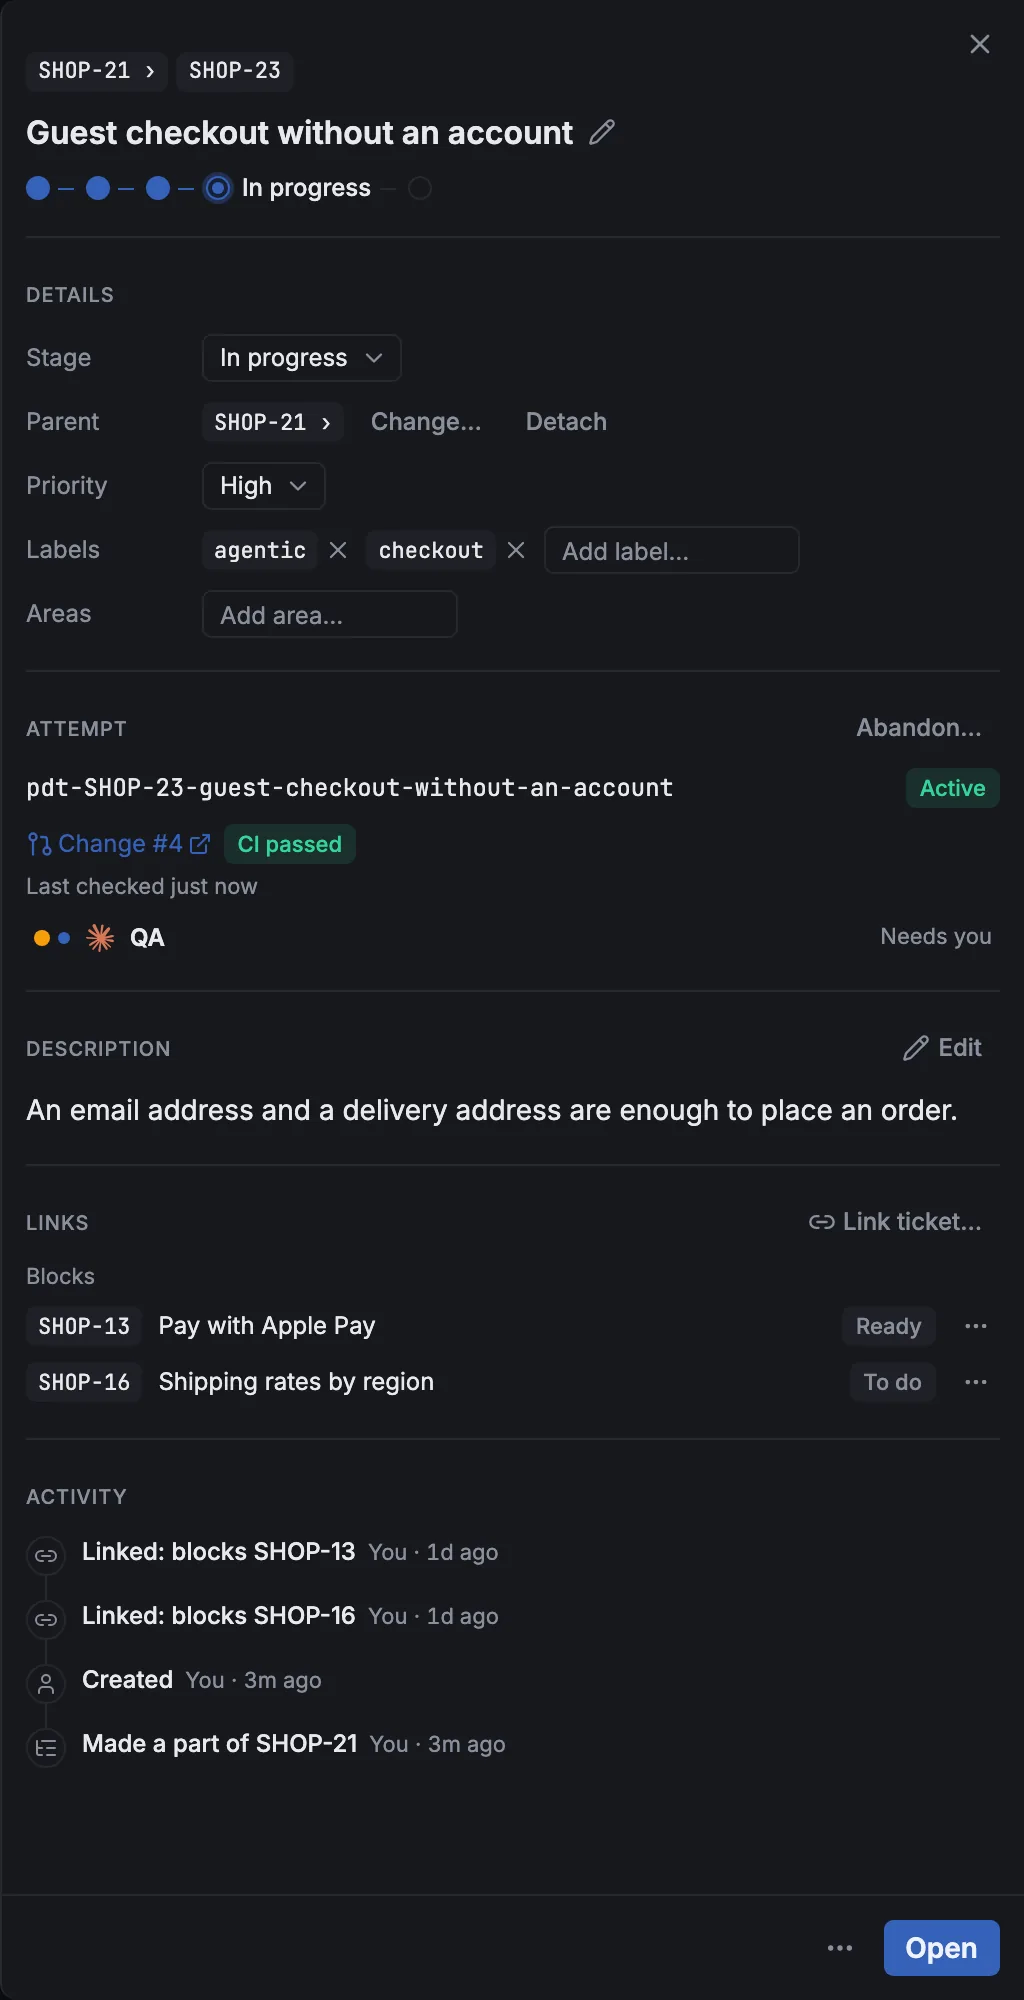
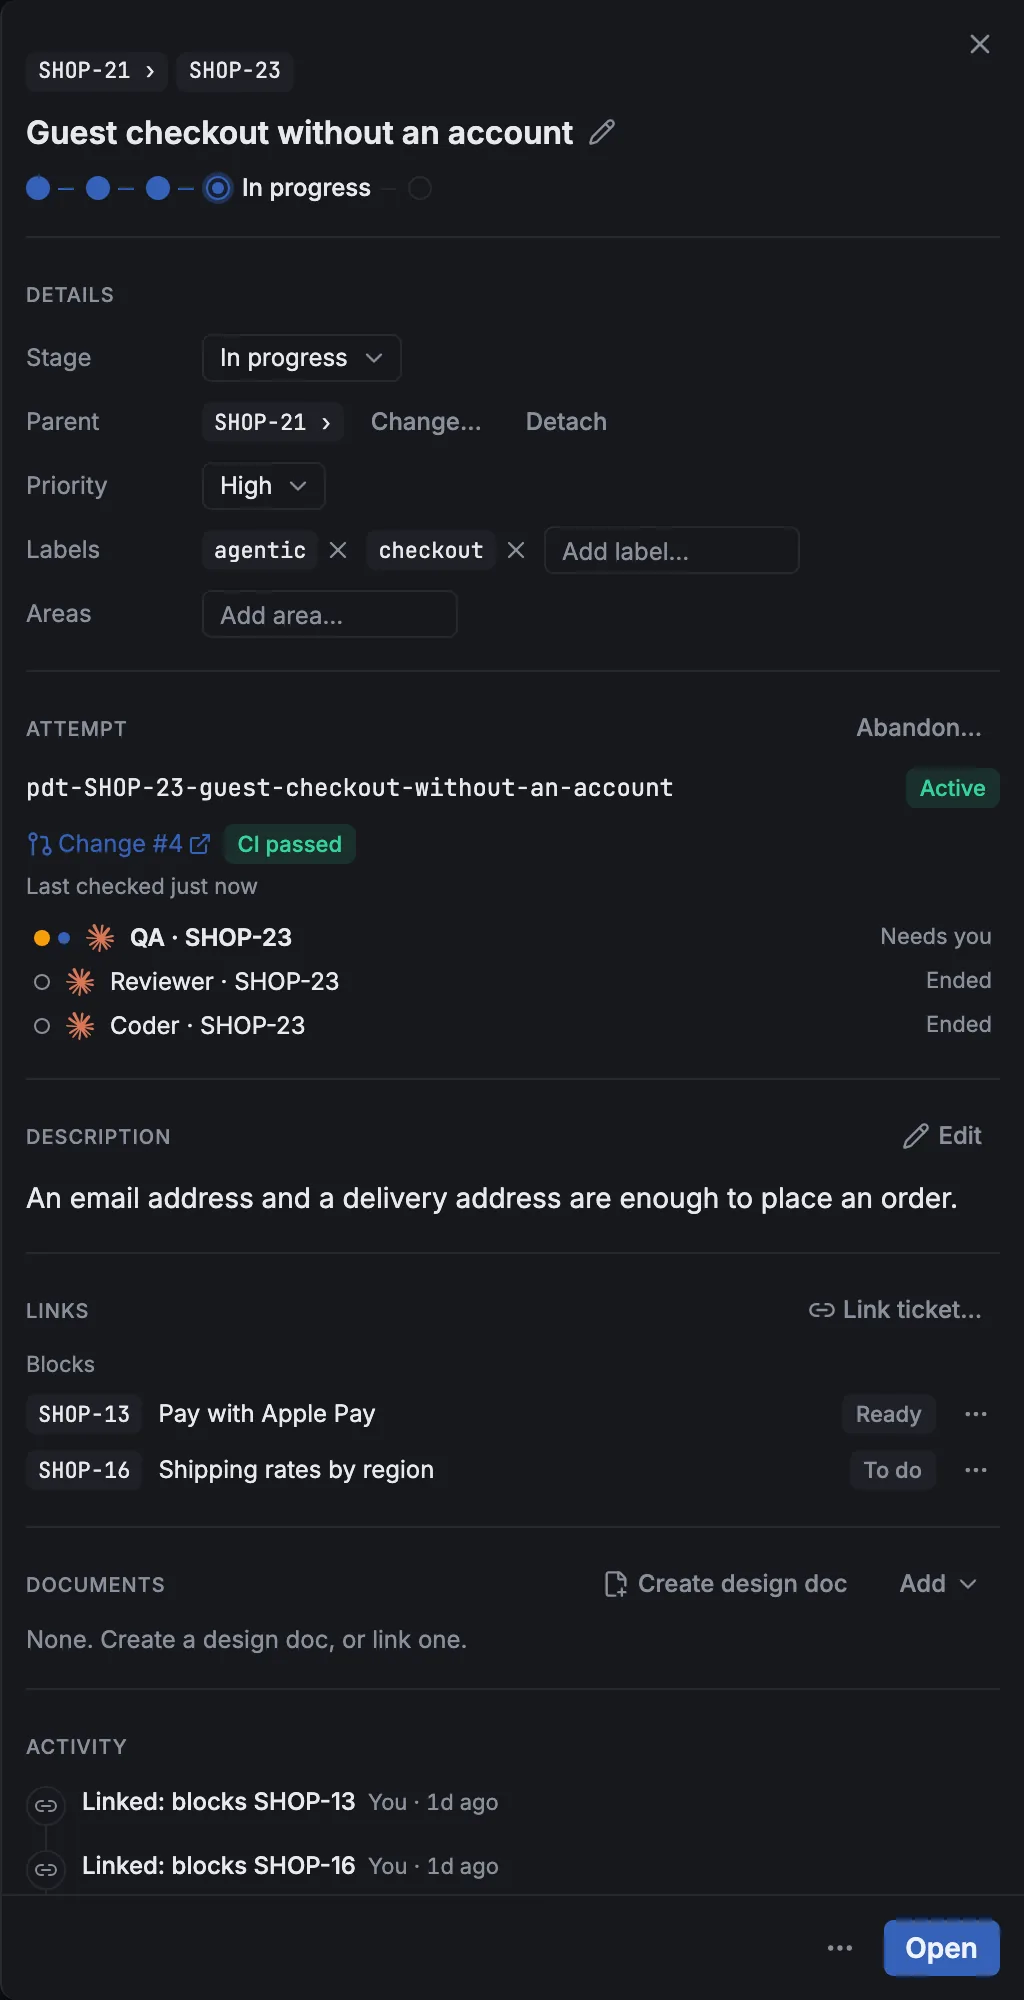
PDT-343: Website screenshots show ticket workspaces, not loose Coder/QA sessions
The website seed gives each started sample ticket a ticket workspace as pickup
makes it (ticket tab, a tab per Pipeline step so far, its Changes or test run),
with the step sessions marked as workflow sessions (built-in Coder, Reviewer
and QA personas, a step id, "<persona> · <key>" titles). Agents keeps the
user's own: a short Claude chat and a Codex terminal, beside the main shell.
site-screenshots.mjs finds the sessions and tabs in their ticket workspaces;
the workspaces, review, ticket, inbox and phone shots are taken again.

diff --git a/crates/pdtd/src/seed/website.rs b/crates/pdtd/src/seed/website.rs
@@ -10,13 +10,16 @@
 use anyhow::Context;
 use pdt_core::conversation::*;
 use pdt_core::inbox::{InboxChoice, InboxGroup, InboxItem, InboxKind, InboxStatus};
+use pdt_core::integration::ToolTable;
+use pdt_core::persona::{BUILTIN_PERSONAS, Persona, PersonaAuthor};
 use pdt_core::pr::CiState;
 use pdt_core::project::Project;
 use pdt_core::run::{Run, RunKind, RunState};
-use pdt_core::session::{AgentKind, Session, SessionKind, SessionStatus};
+use pdt_core::session::{AgentKind, Session, SessionKind, SessionPersona, SessionStatus};
 use pdt_core::ticket::{LinkKind, NewTicket, PipelineStage, Priority, TicketStage};
 use pdt_core::workflow::api::{Author, Scope, Source, Workflow};
 use pdt_core::workflow::doc::WorkflowDoc;
+use pdt_core::workspace::{TabItem, Workspace};
 use pdt_core::worktree::{WORKTREES_DIR, Worktree, worktree_path};
 use pdt_store::Store;
 use serde_json::json;
@@ -333,8 +336,32 @@ pub async fn seed_website(store: &Store, data_dir: &Path, now: i64) -> anyhow::R
         })
         .await?;
 
-    // Sessions, each a tab of the project's workspace (titled by persona: the ticket's key shows beside them): the
-    // Coder's conversation on the search ticket, a Reviewer and a QA agent (the screenshot script brings these two back on a stand-in), and a shell.
+    // The built-in personas the Pipeline's steps run, installed as PDT installs them (their template is PDT's, so
+    // the daemon keeps them as they are when it installs the rest).
+    let mut personas = Vec::new();
+    for b in BUILTIN_PERSONAS.iter().filter(|b| ["coder", "reviewer", "qa"].contains(&b.id)) {
+        let setup = b.setup(&ToolTable::default());
+        let p = Persona {
+            id: id(),
+            name: b.name.into(),
+            role: b.role.into(),
+            description: b.description.into(),
+            builtin: Some(b.id.into()),
+            archived: false,
+            version: 1,
+            setup: setup.clone(),
+            created_at: now - 30 * DAY,
+            updated_at: now - 30 * DAY,
+        };
+        store.insert_persona(&p, PersonaAuthor::Builtin, "installed").await?;
+        store.set_persona_template(&p.id, &setup).await?;
+        personas.push(p);
+    }
+    let persona = |name: &str| personas.iter().find(|p| p.name == name).expect("a sample persona");
+
+    // Sessions. The Pipeline's step sessions sit in their ticket's workspace, which pickup made when it started the
+    // ticket: the ticket's tab, then a tab per step so far (titled `<persona> · <key>`, as a step titles them). The
+    // user's own sessions are tabs of the project's workspace: a shell on main and two conversations of theirs.
     let session = |wt: Option<&Worktree>, agent: Option<AgentKind>, title: String, ago: i64| Session {
         id: id(),
         project_id: project.id.clone(),
@@ -362,34 +389,85 @@ pub async fn seed_website(store: &Store, data_dir: &Path, now: i64) -> anyhow::R
         persona: None,
         background: vec![],
     };
-    let (_, _, _, search_attempt, search_wt) = attempt_of("Search products by name");
-    let coder = Session {
+    // A ticket workspace per started ticket, in the order pickup started them (each new one goes last).
+    let mut by_start: Vec<&(&str, String, String, String, Worktree)> = attempts.iter().collect();
+    by_start.sort_by_key(|a| a.4.created_at);
+    let mut workspaces: Vec<(&str, String)> = Vec::new();
+    let mut steps: Vec<(&str, &str, Session)> = Vec::new();
+    for (title, ticket_id, key, attempt, wt) in by_start {
+        let w = Workspace {
+            id: id(),
+            name: key.clone(),
+            project_id: None,
+            position: 0,
+            created_at: wt.created_at,
+            tabs: vec![],
+            ticket: None,
+        };
+        store.insert_workspace(&w).await?;
+        store.set_attempt_workspace(attempt, &w.id).await?;
+        store.open_tab(&id(), &w.id, &TabItem::Ticket(ticket_id.clone()), None, wt.created_at).await?;
+        // The Pipeline's steps so far, oldest first; the newest is the ticket's stage's.
+        let it = items.iter().find(|i| i.title == *title).expect("a sample ticket");
+        let names: &[&str] = match it.work.expect("started").0 {
+            PipelineStage::Code => &["Coder"],
+            PipelineStage::Review => &["Coder", "Reviewer"],
+            _ => &["Coder", "Reviewer", "QA"],
+        };
+        for (n, name) in names.iter().enumerate() {
+            let p = persona(name);
+            let ago = it.ago + (names.len() - n) as i64 * 25 * MINUTE;
+            let mut s = Session {
+                attempt_id: Some(attempt.clone()),
+                persona: Some(SessionPersona {
+                    id: p.id.clone(),
+                    name: p.name.clone(),
+                    version: p.version,
+                    step_id: Some(id()),
+                }),
+                ..session(Some(wt), Some(AgentKind::Claude), format!("{name} · {key}"), ago)
+            };
+            // The Coder's conversation on the search ticket (the workspace screenshot).
+            if *title == "Search products by name" {
+                s.mode = SessionMode::Conversation;
+                s.permission_mode = Some(PermissionMode::Ask);
+                s.exit_code = None;
+            }
+            store.insert_session(&s).await?;
+            store.open_tab(&id(), &w.id, &TabItem::Session(s.id.clone()), None, s.created_at).await?;
+            steps.push((title, name, s));
+        }
+        workspaces.push((title, w.id));
+    }
+    let workspace_of =
+        |title: &str| workspaces.iter().find(|w| w.0 == title).map(|w| w.1.clone()).expect("a workspace");
+
+    let step = |title: &str, name: &str| &steps.iter().find(|s| s.0 == title && s.1 == name).expect("a step").2;
+    // The Coder's conversation on the search ticket, its branch's changes beside it.
+    let (_, _, _, _, search_wt) = attempt_of("Search products by name");
+    let coder = step("Search products by name", "Coder");
+    seed_conversation(store, &coder.id, &search_wt.branch, coder.created_at).await?;
+    let search_ws = workspace_of("Search products by name");
+    store.open_tab(&id(), &search_ws, &TabItem::Changes(search_wt.id.clone()), None, now - 5 * MINUTE).await?;
+    let (_, _, _, _, cart_wt) = attempt_of("Save the cart across visits");
+    let reviewer = step("Save the cart across visits", "Reviewer");
+    let (_, _, _, _, guest_wt) = attempt_of("Guest checkout without an account");
+
+    // The user's own sessions, in the project's workspace: a shell on main, a short chat and a Codex terminal.
+    let shell = session(None, None, "main".into(), 2 * HOUR);
+    let chat = Session {
         mode: SessionMode::Conversation,
         permission_mode: Some(PermissionMode::Ask),
         exit_code: None,
-        attempt_id: Some(search_attempt.clone()),
-        ..session(Some(search_wt), Some(AgentKind::Claude), "Coder".into(), 30 * MINUTE)
+        ..session(None, Some(AgentKind::Claude), "Where do cart totals get rounded?".into(), 45 * MINUTE)
     };
-    let (_, _, _, cart_attempt, cart_wt) = attempt_of("Save the cart across visits");
-    let reviewer = Session {
-        attempt_id: Some(cart_attempt.clone()),
-        ..session(Some(cart_wt), Some(AgentKind::Claude), "Reviewer".into(), 20 * MINUTE)
-    };
-    let (_, _, _, guest_attempt, guest_wt) = attempt_of("Guest checkout without an account");
-    let qa = Session {
-        attempt_id: Some(guest_attempt.clone()),
-        ..session(Some(guest_wt), Some(AgentKind::Claude), "QA".into(), 15 * MINUTE)
-    };
-    let shell = session(None, None, "main".into(), 2 * HOUR);
-    for s in [&shell, &coder, &reviewer, &qa] {
+    let codex = session(None, Some(AgentKind::Codex), "Try a denser product grid".into(), 90 * MINUTE);
+    let home = store.project_workspace_id(&project.id).await?.context("the project's workspace")?;
+    for s in [&shell, &codex, &chat] {
         store.insert_session(s).await?;
-        if let Some(home) = store.project_workspace_id(&s.project_id).await? {
-            store
-                .open_tab(&id(), &home, &pdt_core::workspace::TabItem::Session(s.id.clone()), None, s.created_at)
-                .await?;
-        }
+        store.open_tab(&id(), &home, &TabItem::Session(s.id.clone()), None, s.created_at).await?;
     }
-    seed_conversation(store, &coder.id, &search_wt.branch, now - 30 * MINUTE).await?;
+    seed_chat(store, &chat.id, chat.created_at).await?;
 
     let run = |wt: Option<&Worktree>, name: &str, kind: RunKind, state: RunState, ago: i64| Run {
         id: id(),
@@ -410,15 +488,15 @@ pub async fn seed_website(store: &Store, data_dir: &Path, now: i64) -> anyhow::R
         created_at: now - ago,
         updated_at: now - ago + MINUTE,
     };
-    for r in [
-        run(None, "unit", RunKind::Test, RunState::Passed, 3 * HOUR),
-        run(Some(guest_wt), "unit", RunKind::Test, RunState::Passed, 10 * MINUTE),
-    ] {
-        store.insert_run(&r).await?;
-    }
+    // The unit tests on main, and QA's run of them on the guest checkout branch, a tab of its ticket's workspace.
+    store.insert_run(&run(None, "unit", RunKind::Test, RunState::Passed, 3 * HOUR)).await?;
+    let qa_tests = run(Some(guest_wt), "unit", RunKind::Test, RunState::Passed, 10 * MINUTE);
+    store.insert_run(&qa_tests).await?;
+    let guest_ws = workspace_of("Guest checkout without an account");
+    store.open_tab(&id(), &guest_ws, &TabItem::Run(qa_tests.id.clone()), None, qa_tests.created_at).await?;
 
-    // The user's line comment on the cart branch, sent to the agent on it, and the branch's changes open beside the
-    // sessions (the review screenshot).
+    // The user's line comment on the cart branch, sent to its Reviewer, and the branch's changes open in its ticket's
+    // workspace (the review screenshot).
     let line = CART_JS.lines().position(|l| l == REVIEWED_LINE).expect("the reviewed line") + 1;
     let line = u32::try_from(line)?;
     store
@@ -442,10 +520,8 @@ pub async fn seed_website(store: &Store, data_dir: &Path, now: i64) -> anyhow::R
             updated_at: now - 18 * MINUTE,
         })
         .await?;
-    if let Some(home) = store.project_workspace_id(&project.id).await? {
-        let changes = pdt_core::workspace::TabItem::Changes(cart_wt.id.clone());
-        store.open_tab(&id(), &home, &changes, None, now - 18 * MINUTE).await?;
-    }
+    let cart_ws = workspace_of("Save the cart across visits");
+    store.open_tab(&id(), &cart_ws, &TabItem::Changes(cart_wt.id.clone()), None, now - 18 * MINUTE).await?;
 
     // A question from the Coder on the receipt ticket, beside the Accept gate in the Inbox.
     let (_, email_id, _, email_attempt, _) = attempt_of("Order confirmation email");
@@ -743,6 +819,42 @@ async fn seed_conversation(store: &Store, session_id: &str, branch: &str, at: i6
         ),
     ];
     insert_events(store, session_id, turn, at, &events).await
+}
+
+/// The user's own short chat in the main checkout: a question about the cart, and Claude's answer.
+async fn seed_chat(store: &Store, session_id: &str, at: i64) -> anyhow::Result<()> {
+    let events: Vec<(&str, AgentEvent)> = vec![
+        ("turn:chat-1", AgentEvent::Turn { phase: TurnPhase::Started, status: None, duration_ms: None, reason: None }),
+        (
+            "u:chat-1",
+            AgentEvent::UserMessage {
+                text: "Where do cart totals get rounded?".into(),
+                images: vec![],
+                source: MessageSource::Pdt,
+                pdt: None,
+            },
+        ),
+        (
+            "m:chat-1",
+            AgentEvent::AgentMessage {
+                id: "chat-1".into(),
+                markdown: "In `src/cart.js`: each line's price is rounded to cents before the lines are added up, so \
+                           a few items can come out a cent off the receipt. Rounding once, on the total, fixes it."
+                    .into(),
+                phase: MessagePhase::Final,
+            },
+        ),
+        (
+            "turn-end:chat-1",
+            AgentEvent::Turn {
+                phase: TurnPhase::Ended,
+                status: Some(TurnStatus::Completed),
+                duration_ms: Some(12_000),
+                reason: None,
+            },
+        ),
+    ];
+    insert_events(store, session_id, "chat-turn-1", at, &events).await
 }
 
 /// A turn's events, 15 s apart from `at`.
@@ -1078,9 +1190,27 @@ mod tests {
         assert_eq!(store.open_inbox_items(None).await.unwrap().len(), 2, "the Accept gate and a question");
 
         let sessions = store.list_sessions(&p.id).await.unwrap();
-        assert_eq!(sessions.len(), 4);
         assert!(sessions.iter().all(|s| s.status == SessionStatus::Finished));
-        let conv = sessions.iter().find(|s| s.mode == SessionMode::Conversation).unwrap();
+        // The user's own agents: a chat and a Codex terminal, in the project's workspace.
+        let own: Vec<_> = sessions.iter().filter(|s| s.agent.is_some() && s.persona.is_none()).collect();
+        assert_eq!(own.len(), 2);
+        // Every other agent is a Pipeline step's, on its ticket, in that ticket's workspace.
+        let workspaces = store.list_workspaces().await.unwrap();
+        let tickets: Vec<_> = workspaces.iter().filter_map(|w| w.ticket.as_ref().map(|t| (w, t))).collect();
+        assert_eq!(tickets.len(), active.len(), "a ticket workspace per started ticket");
+        let steps: Vec<_> = sessions.iter().filter(|s| s.persona.is_some()).collect();
+        assert_eq!(steps.len() + own.len() + 1, sessions.len(), "and a shell");
+        for s in &steps {
+            let persona = s.persona.as_ref().unwrap();
+            assert!(persona.step_id.is_some() && !persona.name.is_empty());
+            let attempt = s.attempt_id.as_deref().unwrap();
+            let (w, _) = tickets.iter().find(|(_, t)| t.attempt_id == attempt).expect("its ticket's workspace");
+            assert!(w.tabs.iter().any(|t| t.session_id.as_deref() == Some(s.id.as_str())));
+            assert_eq!(s.title, format!("{} · {}", persona.name, s.ticket.as_ref().unwrap().key));
+        }
+        let home = workspaces.iter().find(|w| w.project_id.as_deref() == Some(p.id.as_str())).unwrap();
+        assert!(own.iter().all(|s| home.tabs.iter().any(|t| t.session_id.as_deref() == Some(s.id.as_str()))));
+        let conv = steps.iter().find(|s| s.mode == SessionMode::Conversation).unwrap();
         assert!(store.list_session_events(&conv.id, 0, 100).await.unwrap().len() > 10);
         assert!(store.list_active_runs().await.unwrap().is_empty());
         // The cart branch's changes carry the user's comment on the line it names.

diff --git a/.changes/unreleased/PDT-343.md b/.changes/unreleased/PDT-343.md
@@ -1,0 +1,4 @@
+---
+kind: internal
+---
+The website's screenshots show each ticket's work in its own ticket workspace in the sidebar, as PDT keeps it, with only your own conversations under Agents.
